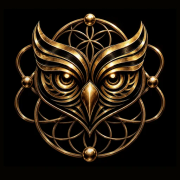
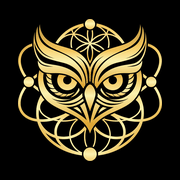
Lucas Eliassons HOA-loggor i sidhuvud, sidfot, mobilmeny, ikoner och OG

diff --git a/src/components/Logo.tsx b/src/components/Logo.tsx
@@ -1,22 +1,42 @@
 import Image from "next/image";
 import Link from "next/link";
 
+// Lucas Eliassons HOA-logga. Liggande variant i sidhuvudet; vid mycket smal rad bara ugglan.
+// Svart på kräm (sidhuvudet är en ljus yta), guld på svart (sidfoten).
 export function Logo({ className = "" }: { className?: string }) {
   return (
     <Link
       href="/"
       aria-label="House of Awesome, startsida"
-      className={`inline-flex min-h-11 shrink-0 items-center gap-3 rounded-lia-md ${className}`}
+      className={`inline-flex min-h-11 shrink-0 items-center rounded-lia-md ${className}`}
     >
       <Image
-        src="/images/lia-uggla.webp"
-        alt=""
-        width={56}
-        height={56}
-        className="h-10 w-10 sm:h-12 sm:w-12"
+        src="/images/hoa-logo-liggande-svart.webp"
+        alt="House of Awesome"
+        width={552}
+        height={112}
+        className="h-11 w-auto sm:h-14 @max-[17.5rem]:hidden"
       />
-      <Wordmark className="text-lg sm:text-xl @max-[17.5rem]:hidden" />
+      <Image
+        src="/images/hoa-uggla-svart.webp"
+        alt="House of Awesome"
+        width={256}
+        height={256}
+        className="hidden h-10 w-10 @max-[17.5rem]:block"
+      />
     </Link>
+  );
+}
+
+export function LogoMark({ variant, className = "" }: { variant: "svart" | "guld"; className?: string }) {
+  return (
+    <Image
+      src={`/images/hoa-logo-liggande-${variant}.webp`}
+      alt="House of Awesome"
+      width={552}
+      height={112}
+      className={`w-auto ${className}`}
+    />
   );
 }
 

diff --git a/src/lib/og.tsx b/src/lib/og.tsx
@@ -16,7 +16,7 @@ async function dataUrl(file: string, mime: string) {
 export async function renderOgImage({ eyebrow, title, subtitle }: { eyebrow: string; title: string; subtitle: string }) {
   const [background, logo, regular, bold] = await Promise.all([
     dataUrl("og-bakgrund.jpg", "image/jpeg"),
-    dataUrl("og-uggla.png", "image/png"),
+    dataUrl("og-logo-liggande-guld.png", "image/png"),
     readFile(join(fontDir, "plus-jakarta-sans-latin-400-normal.woff")),
     readFile(join(fontDir, "plus-jakarta-sans-latin-700-normal.woff")),
   ]);
@@ -49,10 +49,7 @@ export async function renderOgImage({ eyebrow, title, subtitle }: { eyebrow: str
         >
           <div style={{ display: "flex", alignItems: "center", gap: 20 }}>
             {/* eslint-disable-next-line @next/next/no-img-element */}
-            <img src={logo} alt="" width={88} height={88} />
-            <div style={{ display: "flex", fontSize: 38, fontWeight: 700, letterSpacing: -0.5 }}>
-              House of&nbsp;<span style={{ color: "#efc55d" }}>Awesome</span>
-            </div>
+            <img src={logo} alt="House of Awesome" width={434} height={88} />
           </div>
           <div style={{ display: "flex", flexDirection: "column", maxWidth: 980 }}>
             <div style={{ fontSize: 22, fontWeight: 700, letterSpacing: 5.5, textTransform: "uppercase", color: "#efc55d" }}>

diff --git a/src/components/SiteHeader.tsx b/src/components/SiteHeader.tsx
@@ -6,7 +6,7 @@ import { useEffect, useState } from "react";
 
 import { Container } from "@/components/Container";
 import { CtaLink } from "@/components/CtaLink";
-import { Logo } from "@/components/Logo";
+import { Logo, LogoMark } from "@/components/Logo";
 import type { MenuEntry, MenuGroup } from "@/lib/nav";
 
 function Plus({ open }: { open: boolean }) {
@@ -155,7 +155,7 @@ export function SiteHeader({ bookingHref, menu }: { bookingHref: string; menu: (
         // (också z-60, senare i DOM) hamnar då över Boka. Öppet sidhuvud lyfts till z-65.
         <div id="mobilmeny" role="dialog" aria-modal="true" aria-label="Meny" className="fixed inset-0 z-[65] flex flex-col bg-hoa-bg xl:hidden">
           <div className="flex h-20 shrink-0 items-center justify-between border-b border-hoa-line px-4 sm:px-6">
-            <p className="font-display text-sm font-bold tracking-[0.25em] text-hoa-ink">HOUSE OF AWESOME</p>
+            <LogoMark variant="svart" className="h-10" />
             <button type="button" onClick={close} className="inline-flex h-12 w-12 items-center justify-center text-3xl text-hoa-ink">
               <span aria-hidden>×</span>
               <span className="sr-only">Stäng meny</span>

diff --git a/src/components/SiteFooter.tsx b/src/components/SiteFooter.tsx
@@ -1,7 +1,7 @@
 import Link from "next/link";
 
 import { Container } from "@/components/Container";
-import { Wordmark } from "@/components/Logo";
+import { LogoMark } from "@/components/Logo";
 import { CookieSettingsButton } from "@/components/consent/CookieSettingsButton";
 import { formatAddress, site } from "@/lib/content";
 import { b2bUrl, mailtoUrl, telUrl } from "@/lib/links";
@@ -21,7 +21,7 @@ export function SiteFooter() {
     <footer className="hoa-surface-dark mt-auto border-t border-hoa-line bg-hoa-bg">
       <Container className="grid grid-cols-1 gap-10 py-14 sm:grid-cols-2 lg:grid-cols-5">
         <div className="lg:col-span-2">
-          <Wordmark className="text-xl" />
+          <LogoMark variant="guld" className="h-12" />
           <p className="mt-3 text-sm text-hoa-ink-muted">Där vetenskap, själ och rörelse möts.</p>
           <p className="mt-1 text-xs text-hoa-ink-muted">{sellerLine}</p>
         </div>

diff --git a/src/app/page.tsx b/src/app/page.tsx
@@ -87,7 +87,7 @@ export default function HomePage() {
       <section id="valkommen" aria-labelledby="valkommen-rubrik">
         <div className="px-4 pt-8 pb-10 text-center md:pt-12 md:pb-12">
           <div className="@container mx-auto max-w-3xl">
-            <Image src="/images/lia-uggla.webp" alt="" width={256} height={256} className="mx-auto h-14 w-14 md:h-20 md:w-20" />
+            <Image src="/images/hoa-uggla-guld.webp" alt="" width={256} height={256} className="mx-auto h-14 w-14 md:h-20 md:w-20" />
             <h1 id="valkommen-rubrik" className="mt-4 text-hoa-ink">
               {/* VÄLKOMMEN är 6,45 em; storleken krymper bara om ordet annars inte ryms, till exempel vid förstorad text. */}
               <span className="block text-[min(1.5rem,100cqi/6.6)] md:text-4xl">Välkommen till</span>{" "}

diff --git a/tests/site-header.test.ts b/tests/site-header.test.ts
@@ -33,7 +33,9 @@ describe("sidhuvudets ljusa yta", () => {
     expect(bookingLinks[0]).toContain(">Boka<");
     expect(bookingLinks[0]).toContain("bg-hoa-gold");
     expect(bookingLinks[0]).toContain("text-hoa-espresso");
-    expect(html).toContain("text-hoa-wordmark-accent");
+    // Lucas svarta liggande logga på den ljusa ytan, med alt-text.
+    expect(html).toContain("hoa-logo-liggande-svart.webp");
+    expect(html).toContain('alt="House of Awesome"');
     expect(html).not.toContain('id="mobilmeny"');
   });
 });

diff --git a/src/lib/seo.ts b/src/lib/seo.ts
@@ -66,7 +66,7 @@ export function businessJsonLd() {
         description: site.description,
         url: `${site.url}/`,
         image: `${site.url}/images/house-of-awesome-fasad-2400.webp`,
-        logo: `${site.url}/images/lia-uggla.webp`,
+        logo: `${site.url}/images/hoa-uggla-svart-512.png`,
         telephone: contact.phone,
         email: contact.email,
         priceRange: "kr",

diff --git a/README.md b/README.md
@@ -68,4 +68,4 @@ Tokens och layout i [DESIGN.md](./DESIGN.md): samma värden som lifeisawesome.se
 
 ## Bilder
 
-Tills HOA har egna bilder används LIA:s logga och bilder (`public/images`, `src/app/icon.png`, `src/assets` för tjänsternas OG bilder). Fasaden är husets egen bild och används på startsidan och som OG bild för övriga sidor. Se PR:en för var egna HOA bilder skulle göra mest nytta.
+HOA:s logga är Lucas Eliassons (`public/images/hoa-logo-liggande-*.webp`, `public/images/hoa-uggla-*`, `src/app/icon.png`, `apple-icon.png`, `favicon.ico` och `src/assets/og-logo-liggande-guld.png` för tjänsternas OG bilder). Övriga bilder är fortfarande LIA:s tills HOA har egna. Fasaden är husets egen bild och används på startsidan och som OG bild för övriga sidor. Se PR:en för var egna HOA bilder skulle göra mest nytta.
